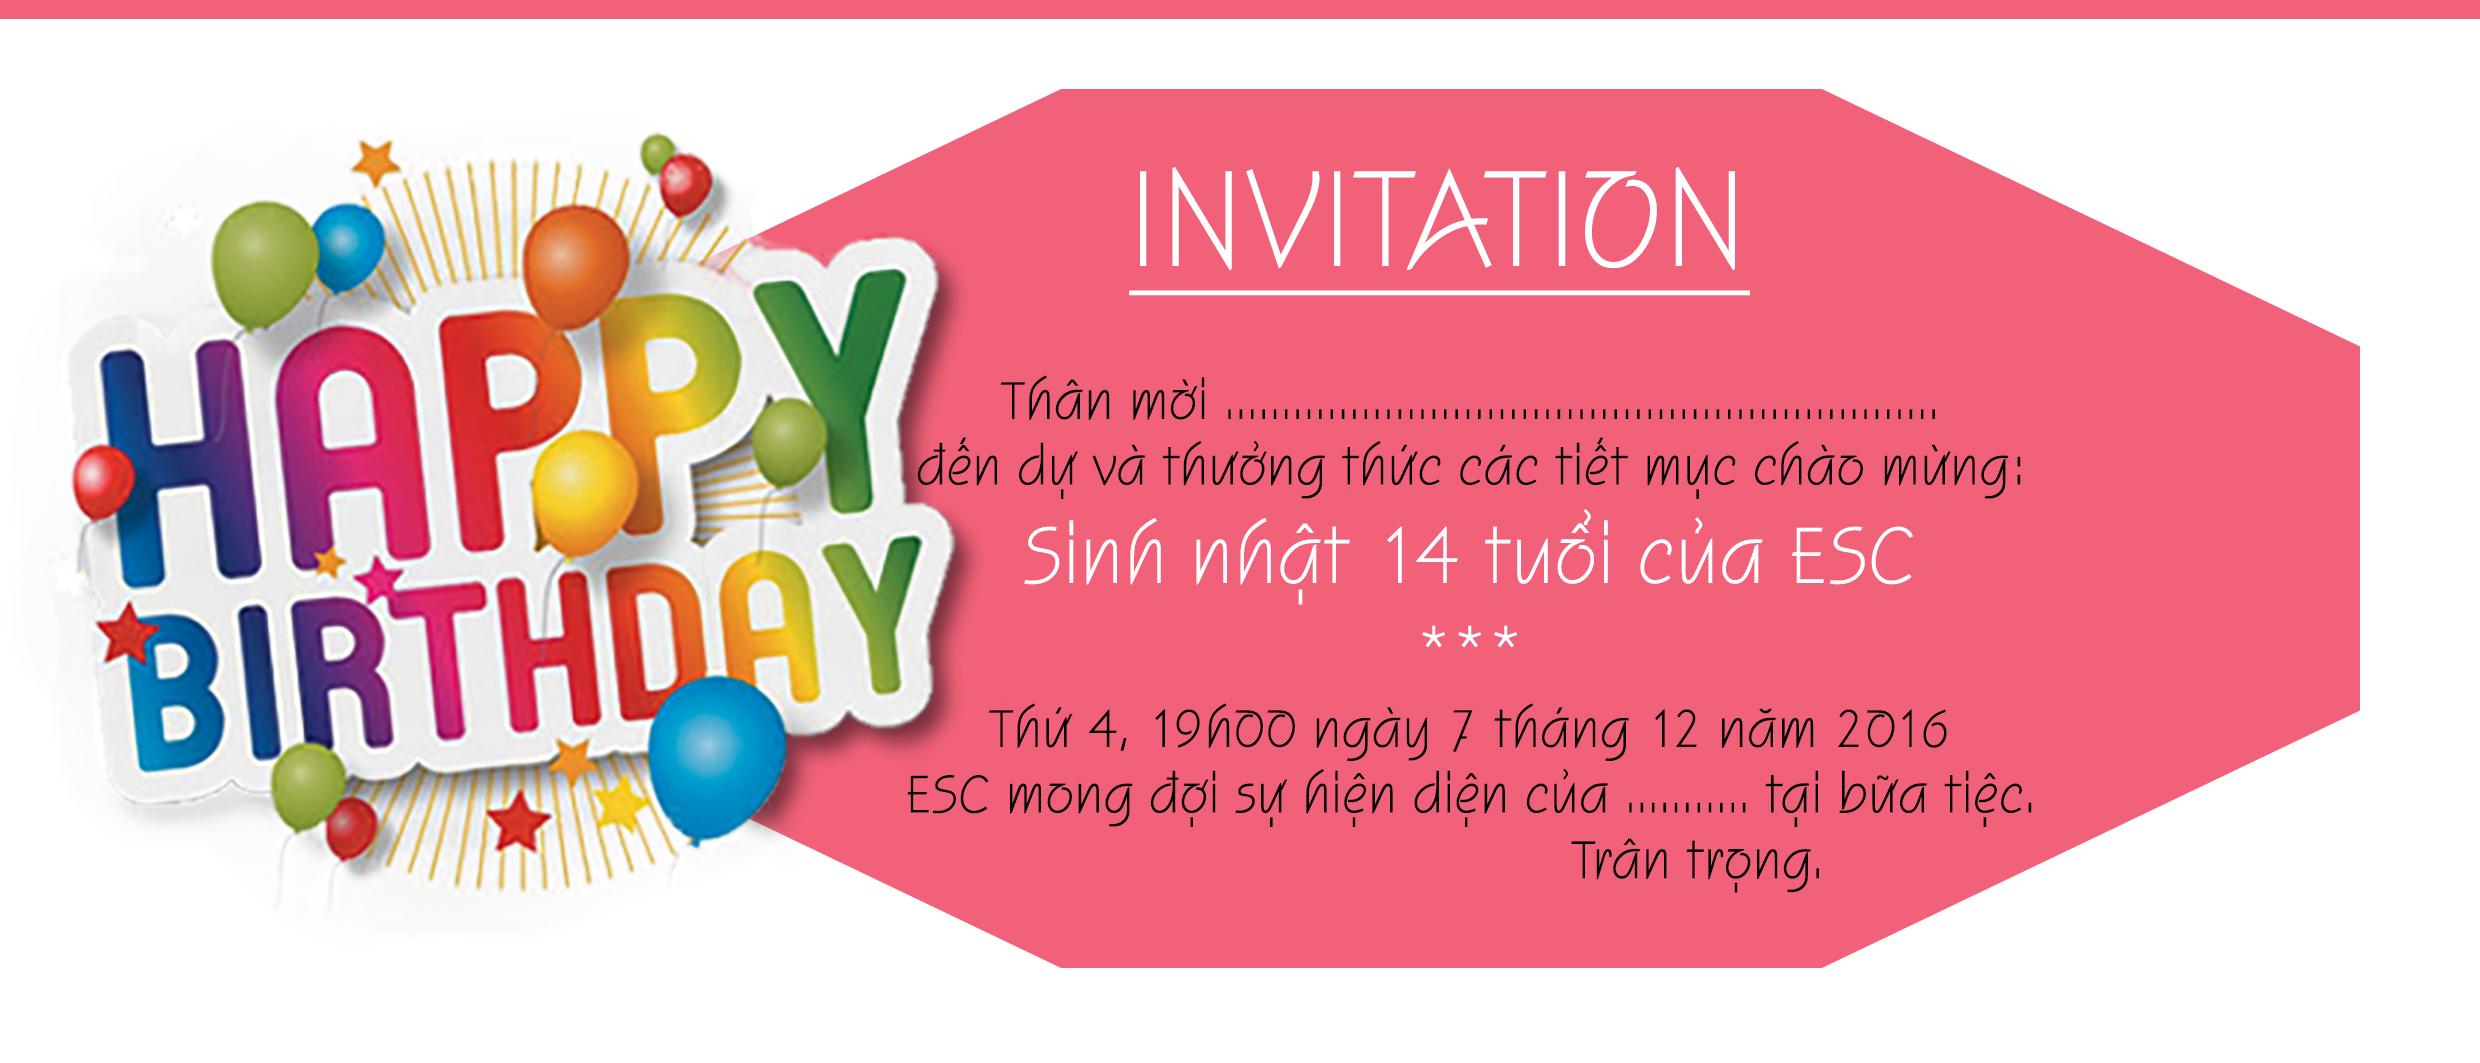
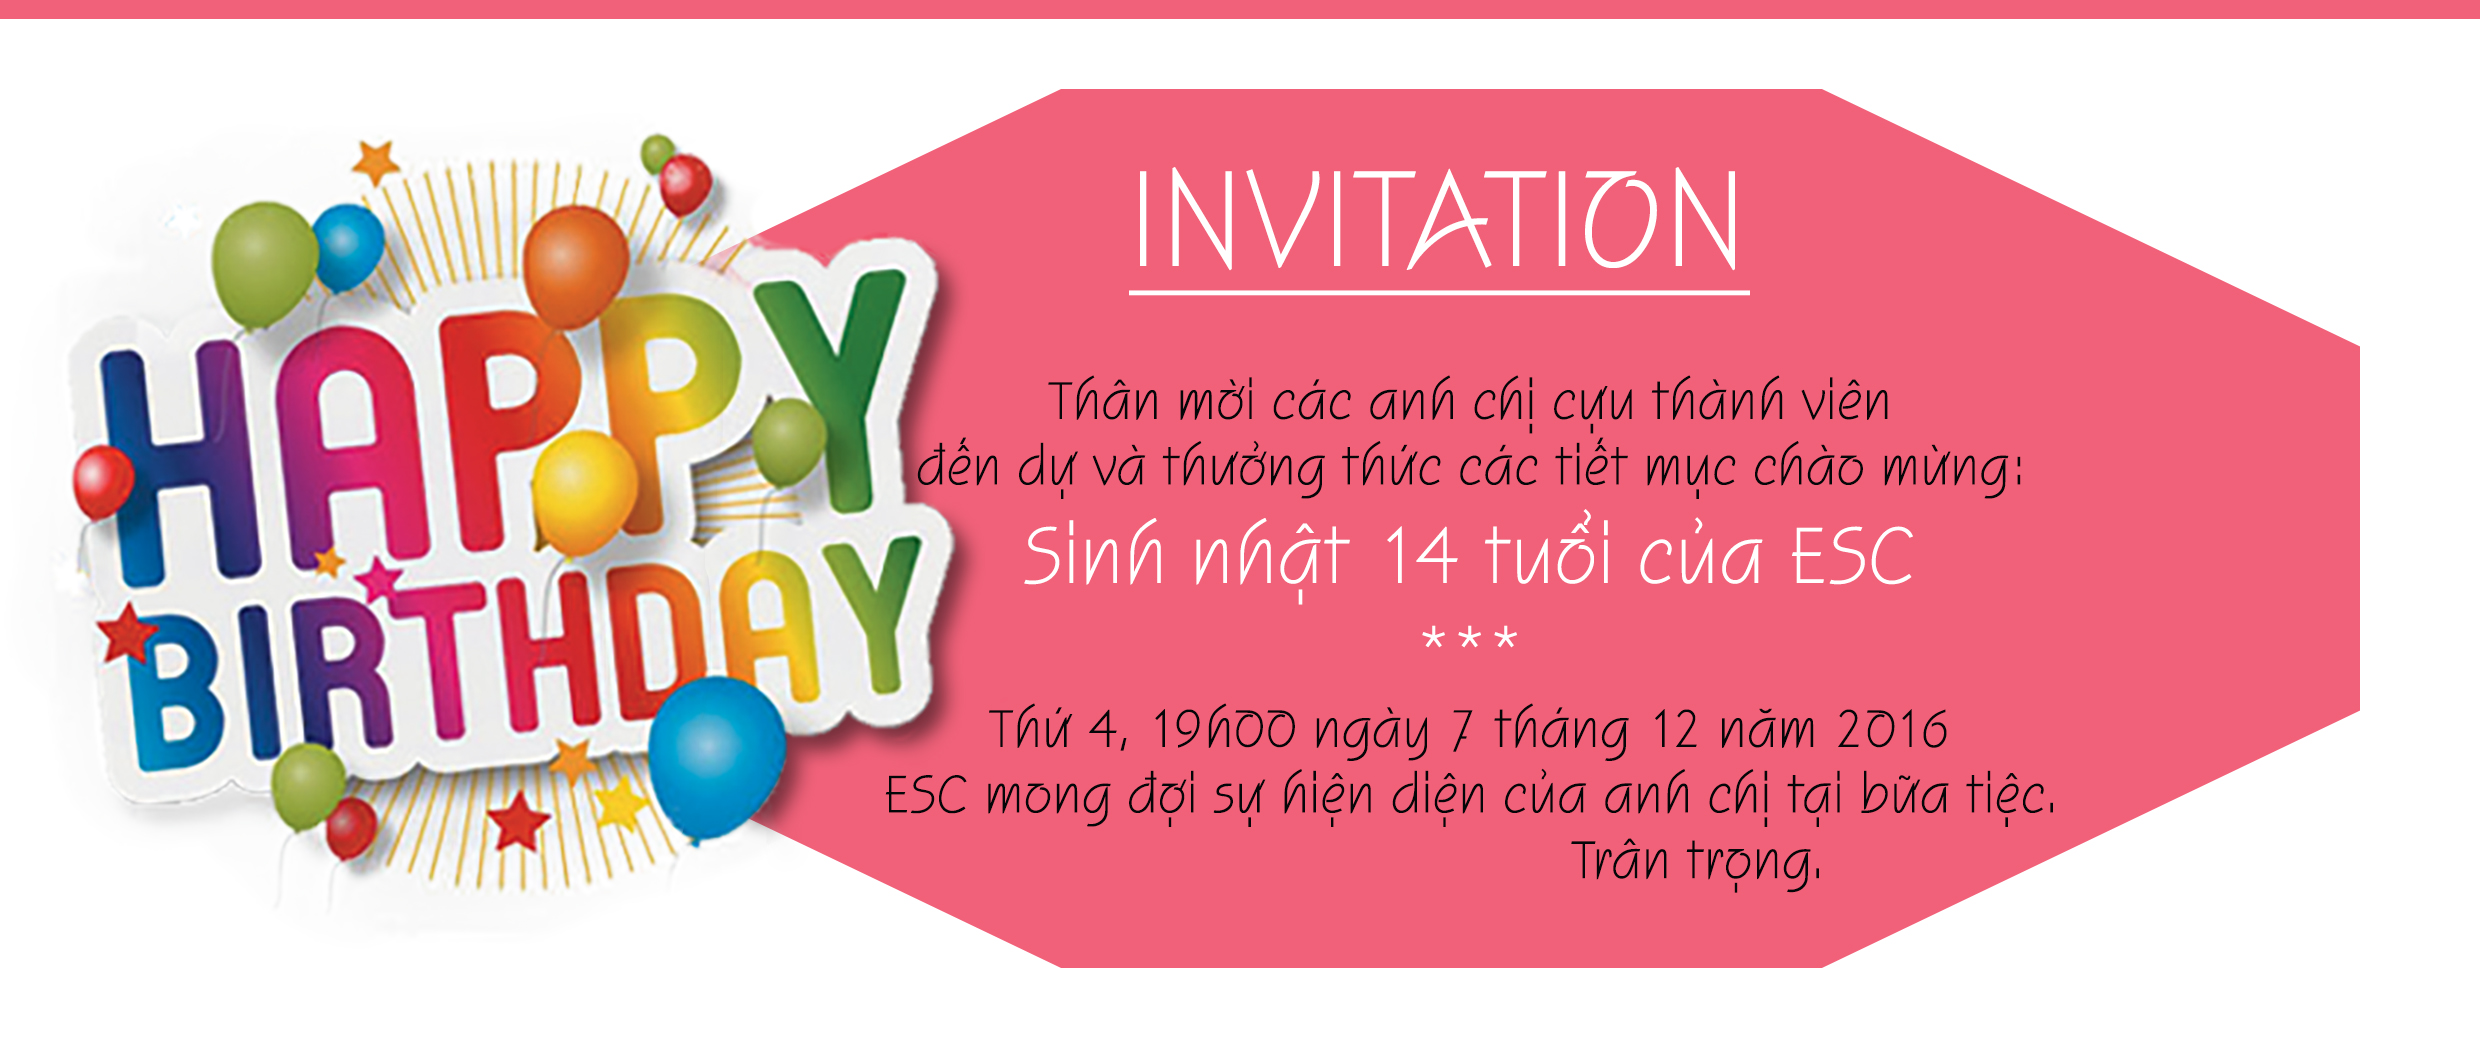
Yeah.. All done :dancer:

Changed region(s): [[0.3415, 0.714, 0.8383, 0.7761], [0.4036, 0.3415, 0.7762, 0.4036]]

diff --git a/index.html b/index.html
@@ -37,41 +37,42 @@
 <p>The website is still in the developing progress. Hope you have some inspirations with it though this may not so beautiful as others.</p>
 
 <h3>
-<a id="designer-templates" class="anchor" href="#designer-templates" aria-hidden="true"><span aria-hidden="true" class="octicon octicon-link"></span></a>Happy ESC's Birthday !!</h3>
+<a id="designer-templates" class="anchor" href="#designer-templates" aria-hidden="true"><span aria-hidden="true" class="octicon octicon-link"></span></a>Happy ESC's 14th Birthday !!</h3>
 
-<p>Join us this Wednesday, <a>December 7th</a> at <a>Coffee A6</a> (Your know this place, right??)</p>
+<p>The Birthday Party is coming...</p>
+<p>Held this Wednesday, <a>December 7th</a> at <a>Coffee A6</a> (Your know this place, right??)</p>
 <p><code>Click the button below to get your invitation.</code></p>
-<button id="invite_button" onclick="show_invitation()">Open Invitation</button>
+<p><button id="invite_button" onclick="show_invitation()">Open Invitation</button></p>
 <script>
 	function show_invitation() {
-		document.getElementById("invite_button").InnerHTML="Hide Invitation";
-		document.getElementById("invitation").display="block";
+		var x = document.getElementById("invite_button");
+		x.firstChild.data="Hide Invitation";
+		x.onclick=hide_invitation;
+		document.getElementById("invitation").style.display="block";
+		document.getElementById("invite_button").scrollIntoView();
 	}
 	function hide_invitation() {
-		document.getElementById("invitation").display="none";
+		var x = document.getElementById("invite_button");
+		x.firstChild.data="Show Invitation";
+		x.onclick=show_invitation;
+		document.getElementById("invitation").style.display="none";
 	}
 </script>
 
-<div id="invitation" style="display:none;"
+<div id="invitation" style="display:none;">
+
+<h3>
+<a class="anchor" href="#" aria-hidden="true"><span aria-hidden="true" class="octicon octicon-link"></span></a>Hi, We still remember you who had put all the great energy for our club. It was a meaning time...</h3>
 <img src="images/coverBirthday.jpg"></img>
+
+<h3>
+<a class="anchor" href="#" aria-hidden="true"><span aria-hidden="true" class="octicon octicon-link"></span></a>Come and join us. Together we make the most beautiful moment, ever!!</h3>
+<img src="images/Page2.jpg"></img>
+<h3>
+<a class="anchor" href="#" aria-hidden="true"><span aria-hidden="true" class="octicon octicon-link"></span></a>Here is our letters...</h3>
+<img src="images/Page3.jpg"></img>
 </div>
-
-<h3>
-<a id="creating-pages-manually" class="anchor" href="#creating-pages-manually" aria-hidden="true"><span aria-hidden="true" class="octicon octicon-link"></span></a>Creating pages manually</h3>
-
-<p>If you prefer to not use the automatic generator, push a branch named <code>gh-pages</code> to your repository to create a page manually. In addition to supporting regular HTML content, GitHub Pages support Jekyll, a simple, blog aware static site generator. Jekyll makes it easy to create site-wide headers and footers without having to copy them across every page. It also offers intelligent blog support and other advanced templating features.</p>
-
-<h3>
-<a id="authors-and-contributors" class="anchor" href="#authors-and-contributors" aria-hidden="true"><span aria-hidden="true" class="octicon octicon-link"></span></a>Authors and Contributors</h3>
-
-<p>You can @mention a GitHub username to generate a link to their profile. The resulting <code>&lt;a&gt;</code> element will link to the contributor’s GitHub Profile. For example: In 2007, Chris Wanstrath (<a href="https://github.com/defunkt" class="user-mention">@defunkt</a>), PJ Hyett (<a href="https://github.com/pjhyett" class="user-mention">@pjhyett</a>), and Tom Preston-Werner (<a href="https://github.com/mojombo" class="user-mention">@mojombo</a>) founded GitHub.</p>
-
-<h3>
-<a id="support-or-contact" class="anchor" href="#support-or-contact" aria-hidden="true"><span aria-hidden="true" class="octicon octicon-link"></span></a>Support or Contact</h3>
-
-<p>Having trouble with Pages? Check out our <a href="https://help.github.com/pages">documentation</a> or <a href="https://github.com/contact">contact support</a> and we’ll help you sort it out.</p>
-        </section>
-
+</section>
         <aside id="sidebar">
           <a href="https://www.facebook.com/ESC.VNU/about" class="button">
             About us
@@ -83,11 +84,21 @@
 
           <p class="repo-owner"><a href="https://github.com/ACoolZero/esc"></a> is maintained by <a href="https://facebook.com/nguyen.phicuong.135">Nguyễn Phi Cường</a>.</p>
 
-          <p>This page was generated by <a href="https://pages.github.com">GitHub Pages</a> using the Architect theme by <a href="https://twitter.com/jasonlong">Jason Long</a>.</p>
+          <p>Working as the Head of Communication Department.</p>
         </aside>
       </div>
     </div>
 
-  
+  <footer>
+   <div id="content-wrapper">
+      <div class="inner clearfix">
+        <section id="main-content">
+<h3>
+<a id="support-or-contact" class="anchor" href="#support-or-contact" aria-hidden="true"><span aria-hidden="true" class="octicon octicon-link"></span></a>Support or Contact</h3>
+
+<p>Having trouble? Go to our <a href="https://facebook.com/esc.vnu">Fanpage</a> to send messages. We will reply instantly in a few minutes.</p>
+</section></div></div>
+</footer>
+
   </body>
 </html>
